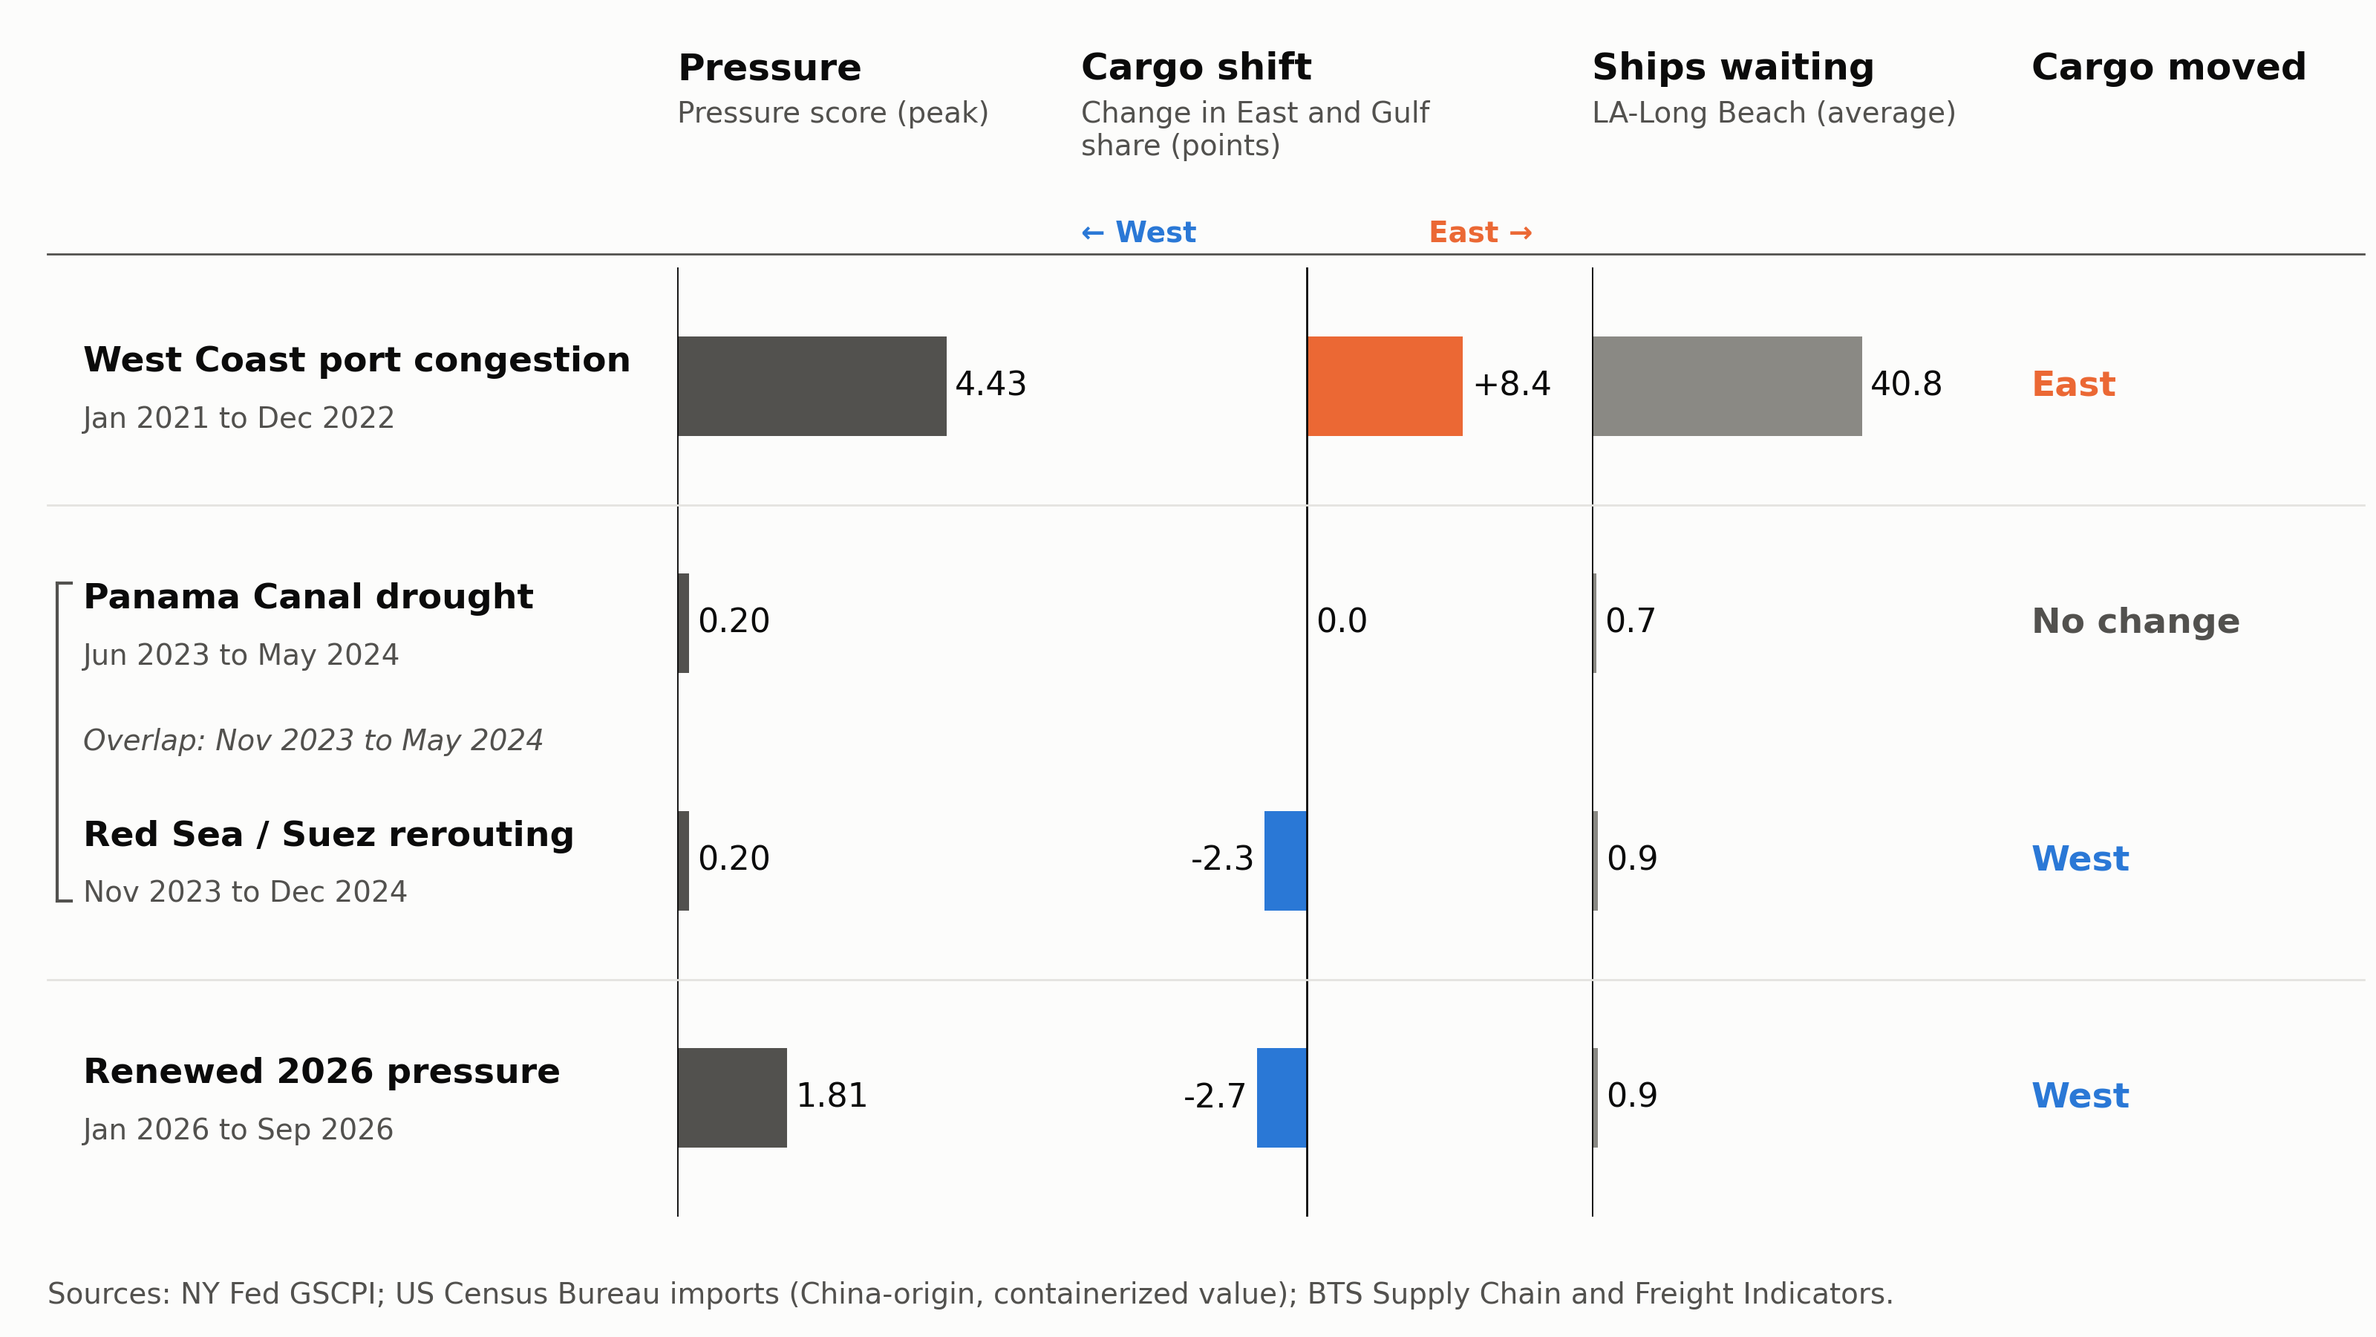
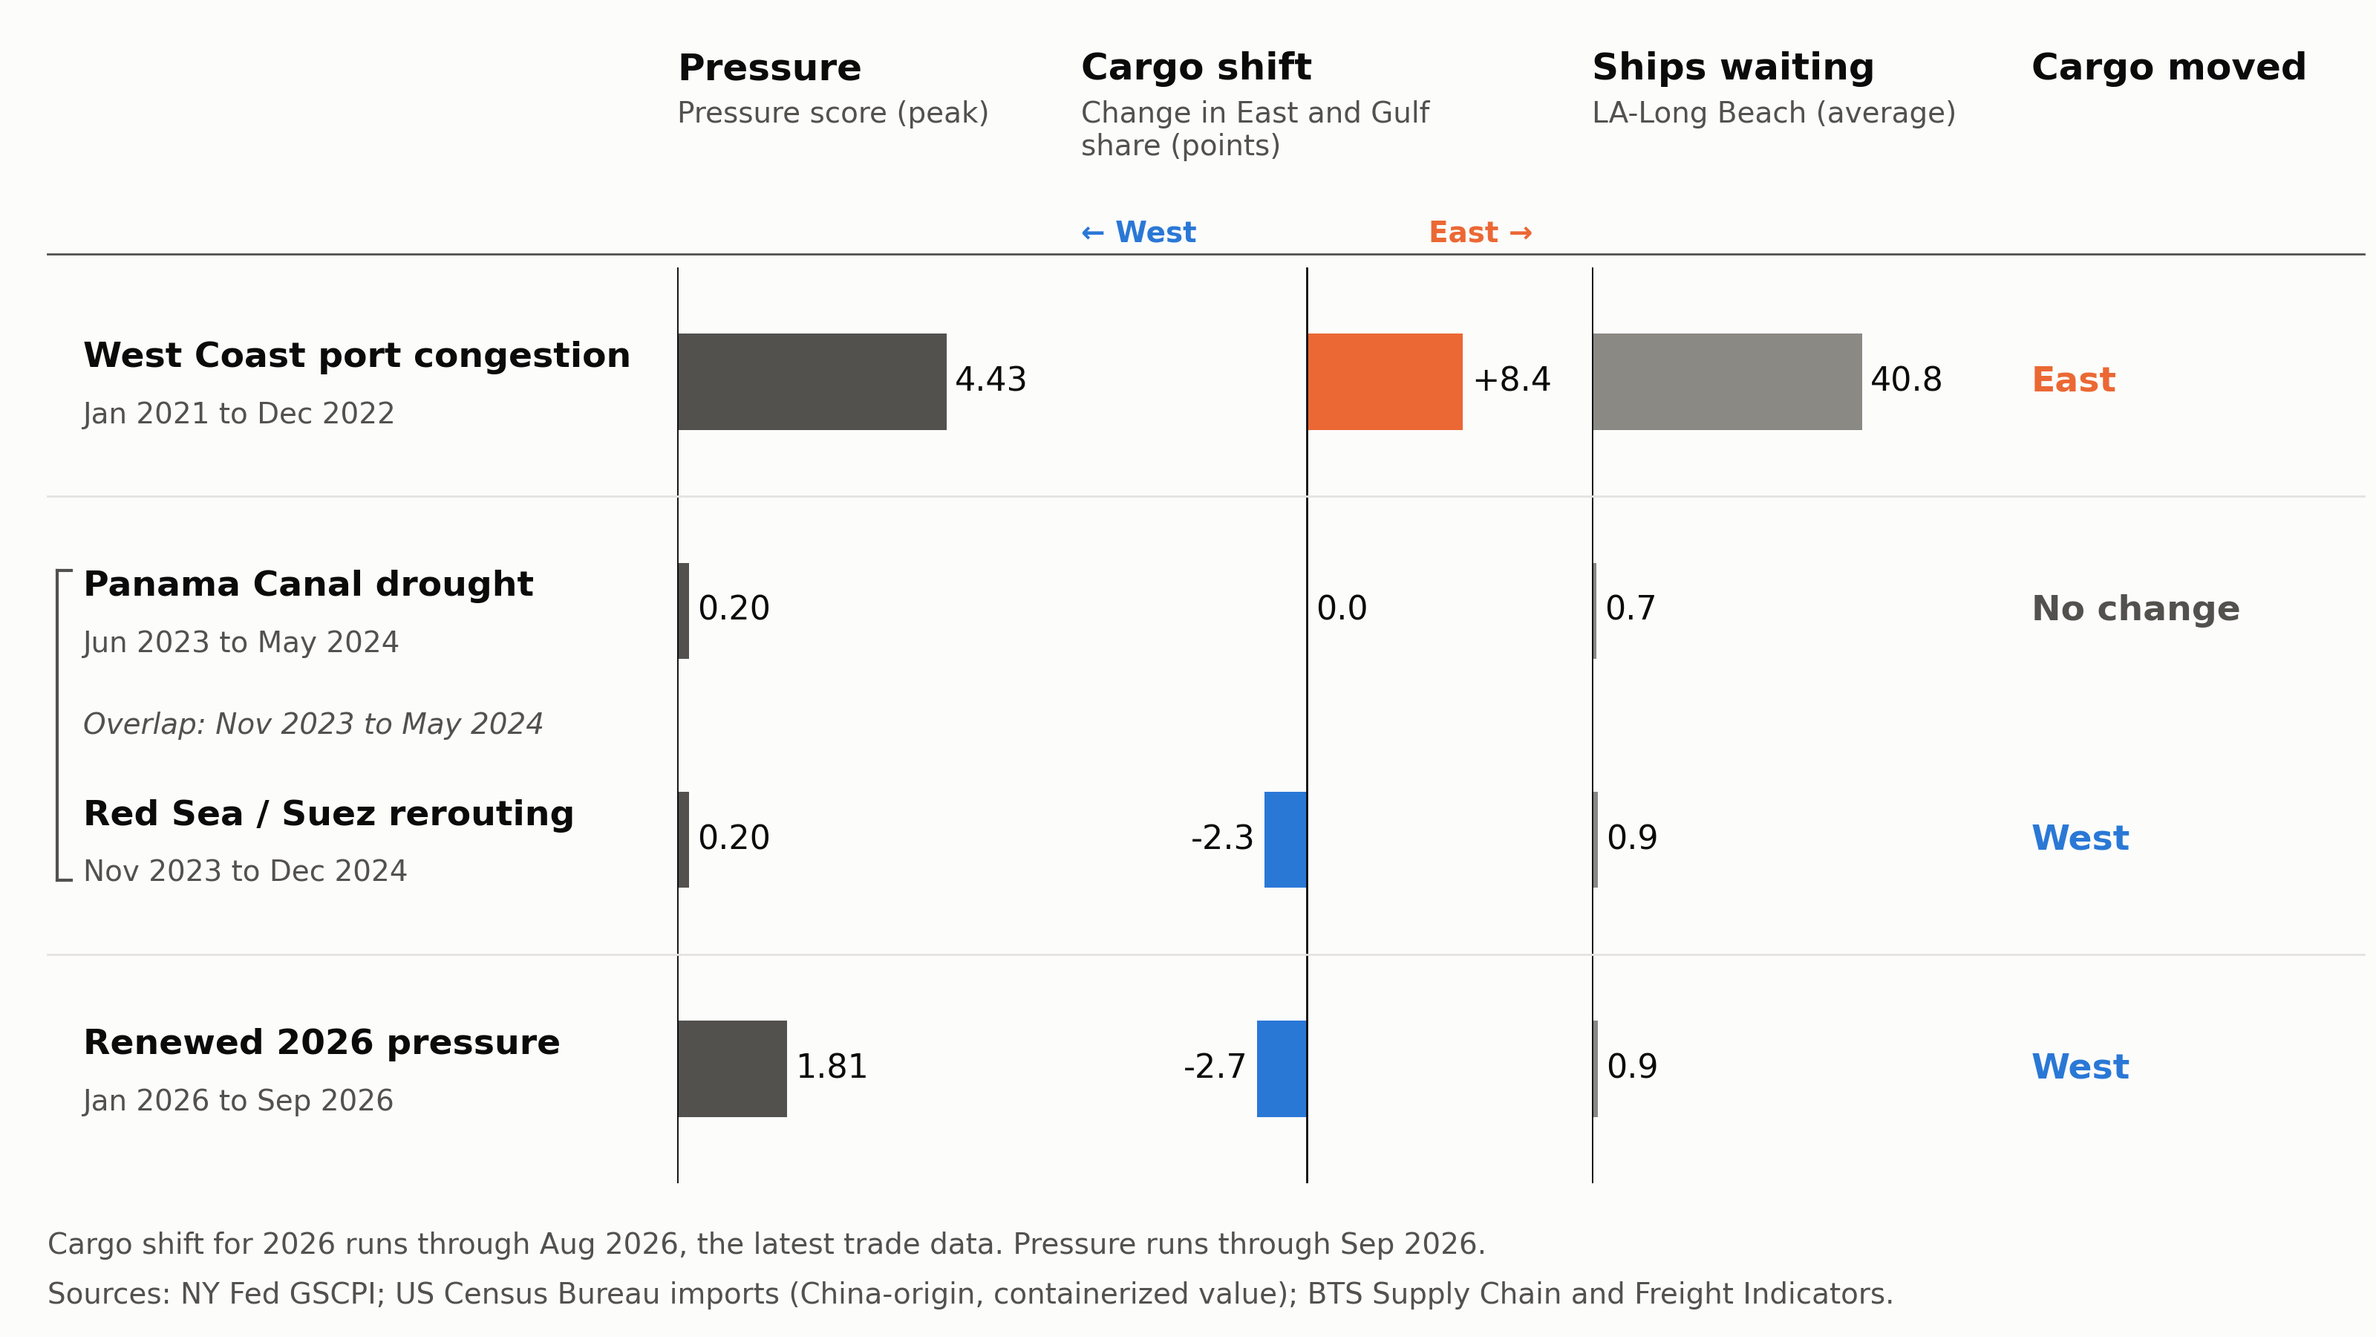
Fix Seattle-Tacoma wording, scorecard footnote, slide 1 line; link Google Slides in README

diff --git a/docs/index.html b/docs/index.html
@@ -251,9 +251,8 @@
   <div class="manifest"><span class="no">01 / 08</span><span>CIS-9655 · FINAL</span></div>
   <div class="hero">
     <h1>Global Supply Chain <span>Resilience</span></h1>
-    <p class="course" style="margin-top:1.2em">CIS 9655</p>
-    <div class="crew"><span>Jason Braverman</span><span>Paven Oommen</span><span>Supriya Singh</span><span>Raul Sola Navarro</span></div>
-    <p class="course" style="margin:1.4em 0 0">CIS-9655 Data Visualization · Prof. Lisa Santa-Coloma · Fall 2026</p>
+    <div class="crew" style="margin-top:1.1em"><span>Jason Braverman</span><span>Paven Oommen</span><span>Supriya Singh</span><span>Raul Sola Navarro</span></div>
+    <p class="course" style="margin:1.2em 0 0.9em">CIS-9655 Data Visualization · Prof. Lisa Santa-Coloma · Fall 2026</p>
   </div>
   <aside class="notes">
     <p>Jason starts talking.</p>
@@ -374,11 +373,11 @@
         <p class="read"><b>How to read</b>Each circle is a port, placed where it really is. Bigger circle means a bigger drop below 2019 at its low. An open ring means it never fell below 2019.</p>
       </div>
     </div>
-    <p class="caveat" style="font-size:0.5em; color:var(--ink); margin-top:12px">103 ships waited at Los Angeles and Long Beach in Jan 2022, more than every other port combined. Los Angeles and Long Beach were back within 3 months of their low. Oakland took 16 months. Seattle-Tacoma (seaport) has not recovered (July 2026).</p>
+    <p class="caveat" style="font-size:0.5em; color:var(--ink); margin-top:12px">103 ships waited at Los Angeles and Long Beach in Jan 2022, more than every other port combined. Los Angeles and Long Beach recovered within 3 months. Oakland and Seattle-Tacoma (seaport) each took 16 months. Seattle-Tacoma then fell back and, at 78 in July 2026, is the one port clearly below its 2019 level.</p>
     <p class="read why" style="margin-top:10px"><b>Why this chart</b>Wait counts exist for only 2 of the 9 ports, so circle size shows a throughput slump instead. We did not fake precision.</p>
   </div>
   <aside class="notes">
-    <p>SUPRIYA (about 60s): "Two views. On the left, a line chart of ships waiting for a berth: blue is Los Angeles and Long Beach, orange is Savannah, gray is every other port. In January 2022, 103 ships were waiting at Los Angeles and Long Beach, more than at all the other ports. Savannah peaked later, at 39 ships in August 2022, after the rerouted cargo arrived. On the right, a map. Each circle is a port, placed where it really is. Circle size shows how far that port's volume fell below its 2019 level at the low point. We used size because wait counts exist for only two ports, and we did not want to fake precision. The biggest circles are on the West Coast. Los Angeles and Long Beach bounced back within three months, Oakland took sixteen, and Seattle-Tacoma, the seaport, is still below 2019."</p>
+    <p>SUPRIYA (about 60s): "Two views. On the left, a line chart of ships waiting for a berth: blue is Los Angeles and Long Beach, orange is Savannah, gray is every other port. In January 2022, 103 ships were waiting at Los Angeles and Long Beach, more than at all the other ports. Savannah peaked later, at 39 ships in August 2022, after the rerouted cargo arrived. On the right, a map. Each circle is a port, placed where it really is. Circle size shows how far that port's volume fell below its 2019 level at the low point. We used size because wait counts exist for only two ports, and we did not want to fake precision. The biggest circles are on the West Coast. Los Angeles and Long Beach bounced back within three months. Oakland and Seattle-Tacoma took sixteen months each, and Seattle-Tacoma then slipped again. It is the one port still clearly below 2019."</p>
   </aside>
 </section>
 

diff --git a/q4-synthesis/build_scorecard.py b/q4-synthesis/build_scorecard.py
@@ -91,7 +91,7 @@ def build_chart(table: pd.DataFrame) -> Path:
     fig.patch.set_facecolor(SURFACE)
 
     n = len(table)
-    top, bottom = 0.80, 0.09
+    top, bottom = 0.80, 0.115
     # Column x-ranges in figure fractions: labels, three bar columns, text column.
     cols = {"label": (0.02, 0.27), "pressure": (0.285, 0.43),
             "shift": (0.455, 0.645), "ships": (0.67, 0.82),
@@ -190,6 +190,8 @@ def build_chart(table: pd.DataFrame) -> Path:
         fig.text(cols["moved"][0], y, r["cargo_moved"], fontsize=17,
                  fontweight="bold", color=color, va="center")
 
+    fig.text(0.02, 0.062, "Cargo shift for 2026 runs through Aug 2026, the latest trade data. "
+             "Pressure runs through Sep 2026.", fontsize=14, color=TEXT_SECONDARY)
     fig.text(0.02, 0.025, "Sources: NY Fed GSCPI; US Census Bureau imports "
              "(China-origin, containerized value); BTS Supply Chain and Freight "
              "Indicators.", fontsize=14, color=TEXT_SECONDARY)

diff --git a/presentation/qa_prep_sheet.md b/presentation/qa_prep_sheet.md
@@ -33,7 +33,7 @@ Questions can go to **any** of us, and everyone should be able to talk about the
 3. **A misattributed cause.** A drop in lane share had been pinned on the Panama drought. The data shows the drought alone left the share flat; the drop came in the overlapping Red Sea window. Fixed in the slide and the README.
 4. **An unsupported guess.** An early draft called a 2025 trade spike "likely tariff front-loading." We had no evidence, so the README says "that's a guess, not a finding."
 5. **A broken workbook.** A script generated a Tableau file that Tableau refused to open. We documented it as broken and built the workbook by hand from a step-by-step guide.
-6. **A recovery claim that was too broad.** "West Coast ports recovered in 2 to 3 months" was true of Los Angeles and Long Beach only. Oakland took 16 months and Seattle-Tacoma has not recovered.
+6. **A recovery claim that was too broad.** "West Coast ports recovered in 2 to 3 months" was true of Los Angeles and Long Beach only. Oakland and Seattle-Tacoma each took 16 months, and Seattle-Tacoma then fell back to 78 by July 2026, the one port clearly below 2019.
 
 ## "What alternatives did you consider and reject?"
 
@@ -73,7 +73,7 @@ Questions can go to **any** of us, and everyone should be able to talk about the
 | Is this about volume? | Lane share is dollar value. Port throughput and ships waiting are volumes and counts. |
 | Do ships waiting cause the reroute? | It is consistent with the data. The East and Gulf share also kept rising after the LA backlog cleared, and outside reporting cites West Coast labor worries, so we do not claim waiting ships are the only cause. |
 | Why did volume drop at some ports, and how does that tie to wait times? | Waits are high when too much arrives at once. Volume is low when too little arrives. In our data volume dropped below 2019 in spring 2023, after the waiting ended. We did not test why it dropped. |
-| Why has Seattle-Tacoma not recovered? | Our data does not say. Outside reporting shows its imports down 18.0% year on year in 2026-Q1 while Vancouver and Prince Rupert grew, with trade friction, Canadian rail routes, and labor and congestion worries cited. |
+| Why is Seattle-Tacoma still below 2019? | It got back to its 2019 level by July 2024 (16 months), then fell to 78 by July 2026. Our data does not say why. Outside reporting shows its imports down 18.0% year on year in 2026-Q1 while Vancouver and Prince Rupert grew, with trade friction, Canadian rail routes, and labor and congestion worries cited. |
 | What is a congestion versus a chokepoint? | Congestion blocks a destination (a port). A chokepoint blocks a path (the canal, the Red Sea). They push cargo in opposite directions. |
 | Do shipping prices predict the shift? | They did through 2022 (r 0.82) and do not since (r 0.09). One episode drove it, so we do not use it to forecast. |
 | What is your conclusion? | Not over, not 2021 again. Pressure above normal, ports clear, cargo leaning west. Which route holds up depends on the disruption type. A pattern to watch, not a proven law. |

diff --git a/presentation/final_presentation_script.md b/presentation/final_presentation_script.md
@@ -82,7 +82,7 @@
 **On screen:** Title "Where the rerouted cargo landed." Backlog line chart on the left, circle map on the right. One caption line about the 103 ships.
 
 **Say:**
-> "Two views. On the left, a line chart of ships waiting for a berth: blue is Los Angeles and Long Beach, orange is Savannah, gray is every other port. In January 2022, 103 ships were waiting at Los Angeles and Long Beach, more than at all the other ports. Savannah peaked later, at 39 ships in August 2022, after the rerouted cargo arrived. On the right, a map. Each circle is a port, placed where it really is. Circle size shows how far that port's volume fell below its 2019 level at the low point. We used size because wait counts exist for only two ports, and we did not want to fake precision. The biggest circles are on the West Coast. Los Angeles and Long Beach bounced back within three months, Oakland took sixteen, and Seattle-Tacoma, the seaport, is still below 2019."
+> "Two views. On the left, a line chart of ships waiting for a berth: blue is Los Angeles and Long Beach, orange is Savannah, gray is every other port. In January 2022, 103 ships were waiting at Los Angeles and Long Beach, more than at all the other ports. Savannah peaked later, at 39 ships in August 2022, after the rerouted cargo arrived. On the right, a map. Each circle is a port, placed where it really is. Circle size shows how far that port's volume fell below its 2019 level at the low point. We used size because wait counts exist for only two ports, and we did not want to fake precision. The biggest circles are on the West Coast. Los Angeles and Long Beach bounced back within three months. Oakland and Seattle-Tacoma took sixteen months each, and Seattle-Tacoma then slipped again. It is the one port still clearly below 2019."
 
 ---
 
@@ -94,7 +94,7 @@
 **Say:**
 > "This is the whole project on one page. Each row is a disruption. Each column is something we measured: pressure, how far cargo moved east or west, and how many ships waited at Los Angeles and Long Beach. Longer bar, bigger number, so you can read across a row. Top row, the 2021 jam: pressure 4.43, cargo moved east by 8 points, about 41 ships waiting on average. A big jam, and cargo went east. Next two rows, the canal drought and the Red Sea: small pressure, almost no waiting, and cargo flat or drifting west. Last row, 2026: pressure up, almost no ships waiting, cargo leaning west. So there are two patterns: a port jam pushes cargo east, and a chokepoint problem pushes it west. 2026 so far looks like the second one. We also tested shipping prices as a predictor. They matched through 2022, but not since, so we do not use them to forecast."
 
-*(Backup slides B1 to B4 hold the stacked-strips chart, the price scatter, and the route map. Do not open them unless asked.)*
+*(Backup slides B1 to B4 hold the stacked-strips chart, the price scatter, the port-volume small multiples, and a plain-English glossary. Do not open them unless asked.)*
 
 ---
 

diff --git a/presentation/plain_english_faq.md b/presentation/plain_english_faq.md
@@ -78,9 +78,9 @@ In our data the Pacific ports were running above 2019 during the 2021-22 jam (in
 
 Why volume fell in 2023: our data does not say. A common explanation is that importers had over-ordered during the surge and then bought less, and some cargo moved east. We did not test either, so say "we did not test why."
 
-## 9. Do we know why Seattle-Tacoma hasn't recovered?
+## 9. Do we know why Seattle-Tacoma is still below 2019?
 
-Our data does not tell us why. It only shows that Seattle-Tacoma sat at an index of 78 in July 2026 (2019 = 100), after a low of 71 in March 2023. It is the only one of our nine ports still well below its 2019 level. (Oakland recovered after 16 months, though it still sits just under 2019 at 99.)
+Our data does not tell us why. It only shows that Seattle-Tacoma fell to a low of 71 in March 2023 (2019 = 100), got back to its 2019 level by July 2024 (16 months), and then fell again to 78 by July 2026. It is the one port of our nine still clearly below its 2019 level. (Oakland also took 16 months to recover, and it sits just under 2019 at 99.)
 
 Outside reporting gives context. Sea-Intelligence reports that the Northwest Seaport Alliance (Seattle and Tacoma) had the steepest decline of any major US West Coast port, with laden import volumes down 18.0% year on year in 2026-Q1, while Vancouver rose 9.0% and Prince Rupert 7.8%. The reasons it lists are trade friction, favourable rail routes from Canadian ports into the US Midwest, and shippers avoiding US West Coast labor and congestion risk. Source: [Sea-Intelligence, TP Realignment: NAWC 2026-Q1 Volume Analysis](https://sea-intelligence.com/press-room/387-tp-realignment-nawc-2026-q1-volume-analysis).
 
@@ -126,6 +126,6 @@ See [`visualization_decisions.md`](visualization_decisions.md). It walks each ch
 ## Two corrections we found while preparing (say so if asked)
 
 - The earlier deck said September 2026's reading of 1.28 was "about 40% of the 2021 peak." Checking the math: 1.28 / 4.43 is about 29%. The **40% figure is the 2026 peak of 1.81** (1.81 / 4.43 is about 41%). The deck and notes now say: peak 1.81 in May, 1.28 in September.
-- The earlier deck said "West Coast ports recovered in 2 to 3 months." That is true of Los Angeles (2) and Long Beach (3). **Oakland took 16 months and Seattle-Tacoma has not recovered.** The deck now says that.
+- The earlier deck said "West Coast ports recovered in 2 to 3 months." That is true of Los Angeles (2) and Long Beach (3). **Oakland and Seattle-Tacoma each took 16 months, and Seattle-Tacoma then fell back to 78 by July 2026, the one port clearly below 2019.** The deck now says that.
 
 Catching and fixing our own errors is exactly the "integrity" story the professor asked about. Use it.

diff --git a/README.md b/README.md
@@ -10,7 +10,7 @@ CIS 9655 (Data Visualization): team final project.
 |---|---|---|
 | Final presentation (web deck) | https://raulsolanavarro.github.io/cis9655-supply-chain/ | The 8-slide deck we present. Press S for speaker notes, F for full screen. |
 | Earlier pitch deck | https://raulsolanavarro.github.io/cis9655-supply-chain/pitch.html | The Oct 15 pitch, kept for history. |
-| Final presentation (Google Slides) | Google Slides copy: link added after the final rebuild | A Google Slides copy of the same deck, for the shared folder. |
+| Final presentation (Google Slides) | https://docs.google.com/presentation/d/1NCJ1iLk6TDnCqQEziUqWxZBvC1HYF4jo_mq601SRGCw/edit | A Google Slides copy of the same deck, for the shared folder. |
 | Speaker script | [presentation/final_presentation_script.md](presentation/final_presentation_script.md) | Who says what, with timing, plus the in-person checklist. |
 | Plain-English FAQ | [presentation/plain_english_faq.md](presentation/plain_english_faq.md) | Plain answers to the questions we expect, with sources. |
 | Q&A prep sheet | [presentation/qa_prep_sheet.md](presentation/qa_prep_sheet.md) | Answers to the professor's question types and likely audience questions. |
